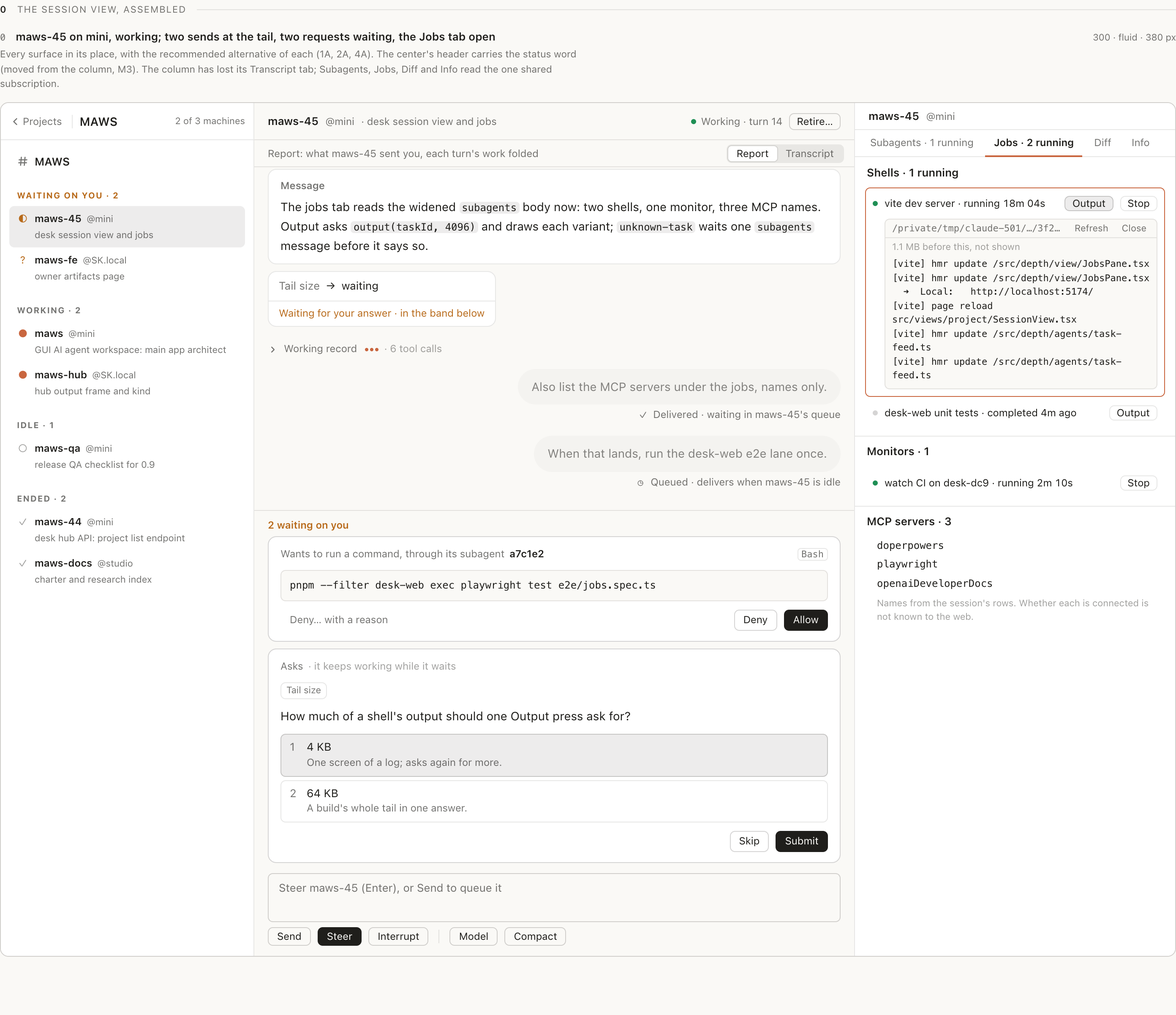
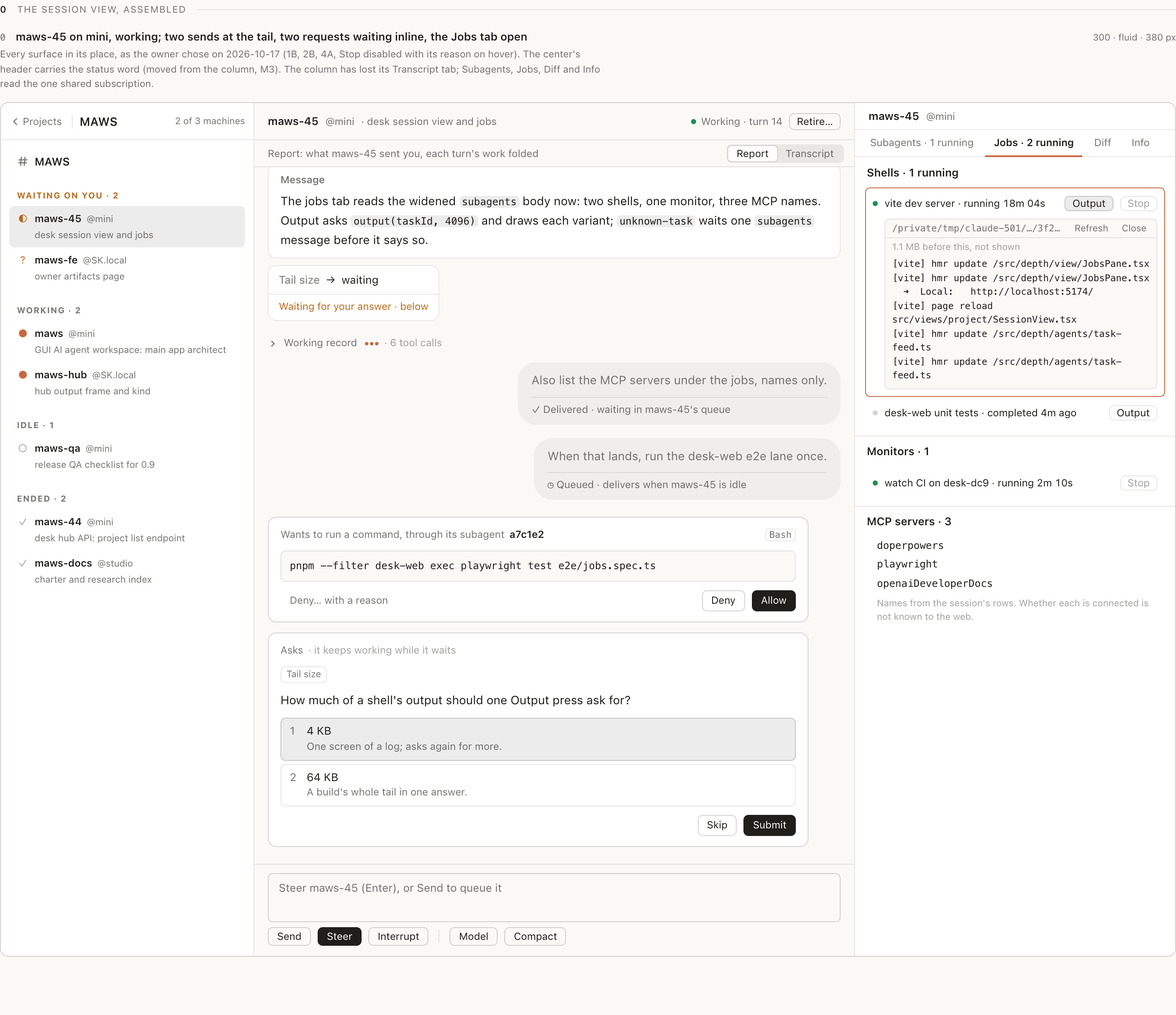
desk mockups 09: the owner's choices marked (1B, 2B, 4A, Stop disabled, the end marker as drawn)
Each chosen alternative is badged CHOSEN (owner, 2026-10-17); the assembled view uses 1B and 2B with the question row reading 'Waiting for your answer · below'; 2B's pill reads 'N waiting ↓'; Stop is disabled with its reason on hover. Screenshots re-shot.

diff --git a/mockups/desk/09-session-view.html b/mockups/desk/09-session-view.html
@@ -50,6 +50,7 @@ figure { margin: 0; }
 figcaption { display: flex; align-items: baseline; gap: 12px; margin-bottom: 5px; }
 figcaption .number { color: var(--fg-muted); font: 11px var(--font-mono); }
 figcaption .dimension { margin-left: auto; color: var(--fg-muted); font-size: 11px; }
+.pick.chosen { color: var(--bg); background: var(--success); border-color: var(--success); }
 .pick { font-size: 10px; font-weight: 650; letter-spacing: .06em; text-transform: uppercase; color: var(--fg); border: 1px solid var(--border-strong); border-radius: var(--radius-sm); padding: 2px 6px; }
 .rationale { margin: 0 0 12px; font-size: 11.5px; color: var(--fg-muted); line-height: 1.55; max-width: 100ch; }
 .frame { border: 1px solid var(--border-strong); border-radius: var(--radius); background: var(--bg); overflow: hidden; }
@@ -241,7 +242,7 @@ figcaption .dimension { margin-left: auto; color: var(--fg-muted); font-size: 11
 .ttext { flex: 1; min-width: 0; overflow: hidden; text-overflow: ellipsis; white-space: nowrap; font-size: var(--text-ui-sm); font-variant-numeric: tabular-nums; }
 .act { flex-shrink: 0; border: 1px solid var(--border); border-radius: var(--radius-sm); padding: 1px 8px; font-size: var(--text-ui-sm); }
 .act[aria-expanded="true"], .act.pressed { background: var(--bg-active); border-color: var(--border-strong); }
-.act:disabled { color: var(--fg-faint); }
+.act:disabled { color: var(--fg-faint); border-color: var(--border); cursor: help; }
 .tsub { padding-left: 14px; font-size: 11.5px; color: var(--fg-muted); line-height: 1.45; }
 .tsub code { font-size: 11px; }
 /* The output, inline (4A) and drilled into (4B): a plain-text tail, never Markdown */
@@ -290,15 +291,15 @@ figcaption .dimension { margin-left: auto; color: var(--fg-muted); font-size: 11
 <header class="page-head">
   <div class="eyebrow">The desk / The session view / 09 <a href="?theme=dark" id="theme-link">View in dark</a></div>
   <h1>The session view: what the transcript does not know yet, and what runs beside it.</h1>
-  <p>On a desktop browser whose machine is online, a direct channel's center is MAWS's report over the session's own transcript (§9.1): <code>&lt;message&gt;</code> spans as Message cards, one “Working record” row per marked turn, a Report · Transcript toggle. Around it, four surfaces are the desk's own and are this document's subject: <strong>the tail row's delivery line</strong> for a send the transcript has not shown yet, <strong>the request band</strong> above the composer, <strong>the end marker</strong> of an ended or retired session, and <strong>the jobs view</strong> in the column. Where a surface has a real choice, two alternatives stand side by side, named, with the one recommended marked.</p>
+  <p>On a desktop browser whose machine is online, a direct channel's center is MAWS's report over the session's own transcript (§9.1): <code>&lt;message&gt;</code> spans as Message cards, one “Working record” row per marked turn, a Report · Transcript toggle. Around it, four surfaces are the desk's own and are this document's subject: <strong>the tail row's delivery line</strong> for a send the transcript has not shown yet, <strong>the request band</strong> above the composer, <strong>the end marker</strong> of an ended or retired session, and <strong>the jobs view</strong> in the column. Where a surface has a real choice, two alternatives stand side by side, named, with the owner's choice of 2026-10-17 marked.</p>
 </header>
 
 <!-- ═══════════════════════════════ 0. The whole view ═══════════════════════════════ -->
 <section class="surface" id="s0">
 <div class="section-rule"><b>0</b> The session view, assembled</div>
 <section class="vignette"><figure>
-  <figcaption><span class="number">0</span><h2>maws-45 on mini, working; two sends at the tail, two requests waiting, the Jobs tab open</h2><span class="dimension">300 · fluid · 380 px</span></figcaption>
-  <p class="rationale">Every surface in its place, with the recommended alternative of each (1A, 2A, 4A). The center's header carries the status word (moved from the column, M3). The column has lost its Transcript tab; Subagents, Jobs, Diff and Info read the one shared subscription.</p>
+  <figcaption><span class="number">0</span><h2>maws-45 on mini, working; two sends at the tail, two requests waiting inline, the Jobs tab open</h2><span class="dimension">300 · fluid · 380 px</span></figcaption>
+  <p class="rationale">Every surface in its place, as the owner chose on 2026-10-17 (1B, 2B, 4A, Stop disabled with its reason on hover). The center's header carries the status word (moved from the column, M3). The column has lost its Transcript tab; Subagents, Jobs, Diff and Info read the one shared subscription.</p>
   <div class="frame"><div class="desk">
     <aside class="sidebar" aria-label="MAWS channels and sessions">
       <div class="sb-head"><a class="back" href="02-project.html"><svg><use href="#back"/></svg>Projects</a><span class="proj">MAWS</span><span class="proj-mach">2 of 3 machines</span></div>
@@ -317,25 +318,20 @@ figcaption .dimension { margin-left: auto; color: var(--fg-muted); font-size: 11
         <button class="session"><span class="session-glyph g-ended">✓</span><span><span class="session-title"><span class="alias">maws-docs</span><span class="at">@studio</span></span><span class="session-sub">charter and research index</span></span></button>
       </nav>
     </aside>
-    <section class="center" aria-label="maws-45">
+    <section class="center inline" aria-label="maws-45">
       <header class="chead"><span class="name">maws-45</span><span class="at">@mini</span><span class="charge">· desk session view and jobs</span><span class="status-word"><span class="dot"></span>Working · turn 14</span><button class="hbtn">Retire…</button></header>
       <div class="owner-bar"><span class="notes">Report: what maws-45 sent you, each turn's work folded</span><span class="toggle" role="group" aria-label="Session view"><button aria-pressed="true">Report</button><button aria-pressed="false">Transcript</button></span></div>
       <div class="scroll"><div class="column">
         <div class="user"><div class="bubble">Wire the jobs tab against the fake machine's recording. Keep the output tail plain text.</div></div>
         <div class="record"><button class="disclosure"><svg><use href="#chev"/></svg>Working record<span class="counts"> · 23 tool calls · 4 messages</span></button></div>
         <div class="ocard"><div class="ocard-label">Message</div><p>The jobs tab reads the widened <code>subagents</code> body now: two shells, one monitor, three MCP names. Output asks <code>output(taskId, 4096)</code> and draws each variant; <code>unknown-task</code> waits one <code>subagents</code> message before it says so.</p></div>
-        <div class="qrow"><ul><li><span class="ql">Tail size</span><span aria-hidden="true">→</span><span class="qa">waiting</span></li></ul><div class="qfoot wait">Waiting for your answer · in the band below</div></div>
+        <div class="qrow"><ul><li><span class="ql">Tail size</span><span aria-hidden="true">→</span><span class="qa">waiting</span></li></ul><div class="qfoot wait">Waiting for your answer · below</div></div>
         <div class="record"><button class="disclosure"><svg><use href="#chev"/></svg>Working record<span class="dots" role="img" aria-label="Working"><span></span><span></span><span></span></span><span class="counts"> · 6 tool calls</span></button></div>
-        <div class="user tail" data-state="delivered" data-way><div class="bubble">Also list the MCP servers under the jobs, names only.</div><div class="user-meta"><span class="dl"><span class="g">✓</span>Delivered · waiting in maws-45's queue</span></div></div>
-        <div class="user tail" data-state="queued" data-way><div class="bubble">When that lands, run the desk-web e2e lane once.</div><div class="user-meta"><span class="dl"><span class="g">◷</span>Queued · delivers when maws-45 is idle</span></div></div>
+        <div class="user tail-b" data-state="delivered" data-way><div class="bubble"><div class="txt">Also list the MCP servers under the jobs, names only.</div><div class="foot">✓ Delivered · waiting in maws-45's queue</div></div></div>
+        <div class="user tail-b" data-state="queued" data-way><div class="bubble"><div class="txt">When that lands, run the desk-web e2e lane once.</div><div class="foot">◷ Queued · delivers when maws-45 is idle</div></div></div>
+        <article class="rc"><div class="rc-head"><span class="m">Wants to run a command, through its subagent</span><b>a7c1e2</b><span class="tool">Bash</span></div><pre class="mono">pnpm --filter desk-web exec playwright test e2e/jobs.spec.ts</pre><div class="controls"><button class="cb ghost">Deny… with a reason</button><button class="cb">Deny</button><button class="cb primary">Allow</button></div></article>
+        <article class="rc"><div class="rc-head"><span class="m">Asks</span><span class="f">· it keeps working while it waits</span></div><span class="hchip">Tail size</span><p class="q">How much of a shell's output should one Output press ask for?</p><div class="opts"><div class="opt on"><span class="n">1</span><span class="ot"><span>4 KB</span><span class="od">One screen of a log; asks again for more.</span></span></div><div class="opt"><span class="n">2</span><span class="ot"><span>64 KB</span><span class="od">A build's whole tail in one answer.</span></span></div></div><div class="controls"><button class="cb">Skip</button><button class="cb primary">Submit</button></div></article>
       </div></div>
-      <section class="band" aria-label="2 requests waiting on you">
-        <div class="band-head">2 waiting on you</div>
-        <div class="band-cards">
-          <article class="rc"><div class="rc-head"><span class="m">Wants to run a command, through its subagent</span><b>a7c1e2</b><span class="tool">Bash</span></div><pre class="mono">pnpm --filter desk-web exec playwright test e2e/jobs.spec.ts</pre><div class="controls"><button class="cb ghost">Deny… with a reason</button><button class="cb">Deny</button><button class="cb primary">Allow</button></div></article>
-          <article class="rc"><div class="rc-head"><span class="m">Asks</span><span class="f">· it keeps working while it waits</span></div><span class="hchip">Tail size</span><p class="q">How much of a shell's output should one Output press ask for?</p><div class="opts"><div class="opt on"><span class="n">1</span><span class="ot"><span>4 KB</span><span class="od">One screen of a log; asks again for more.</span></span></div><div class="opt"><span class="n">2</span><span class="ot"><span>64 KB</span><span class="od">A build's whole tail in one answer.</span></span></div></div><div class="controls"><button class="cb">Skip</button><button class="cb primary">Submit</button></div></article>
-        </div>
-      </section>
       <div class="composer"><textarea class="box" placeholder="Steer maws-45 (Enter), or Send to queue it" aria-label="Message maws-45"></textarea><div class="verbs"><button class="vb">Send</button><button class="vb primary">Steer</button><button class="vb">Interrupt</button><span class="vsep"></span><button class="vb">Model</button><button class="vb">Compact</button></div></div>
     </section>
     <aside class="depth" aria-label="maws-45 in depth">
@@ -343,7 +339,7 @@ figcaption .dimension { margin-left: auto; color: var(--fg-muted); font-size: 11
       <div class="tabs" role="tablist"><button class="tab" role="tab" aria-selected="false">Subagents · 1 running</button><button class="tab" role="tab" aria-selected="true">Jobs · 2 running</button><button class="tab" role="tab" aria-selected="false">Diff</button><button class="tab" role="tab" aria-selected="false">Info</button></div>
       <div class="pane" role="tabpanel" aria-label="Jobs">
         <section class="grp"><h3>Shells · 1 running</h3>
-          <div class="trow sel"><div class="tline"><span class="tdot on"></span><span class="ttext">vite dev server · running 18m 04s</span><button class="act" aria-expanded="true">Output</button><button class="act">Stop</button></div>
+          <div class="trow sel"><div class="tline"><span class="tdot on"></span><span class="ttext">vite dev server · running 18m 04s</span><button class="act" aria-expanded="true">Output</button><button class="act" disabled title="Stopping a job from the web is not available yet: stop it from the session's terminal">Stop</button></div>
             <div class="out"><div class="out-head"><span class="path">/private/tmp/claude-501/…/3f2a9c1e/tasks/bq81x2kd.output</span><button>Refresh</button><button>Close</button></div><p class="before">1.1 MB before this, not shown</p><pre>[vite] hmr update /src/depth/view/JobsPane.tsx
 [vite] hmr update /src/depth/view/JobsPane.tsx
   ➜  Local:   http://localhost:5174/
@@ -354,7 +350,7 @@ figcaption .dimension { margin-left: auto; color: var(--fg-muted); font-size: 11
           <div class="trow"><div class="tline"><span class="tdot"></span><span class="ttext">desk-web unit tests · completed 4m ago</span><button class="act">Output</button></div></div>
         </section>
         <section class="grp"><h3>Monitors · 1</h3>
-          <div class="trow"><div class="tline"><span class="tdot on"></span><span class="ttext">watch CI on desk-dc9 · running 2m 10s</span><button class="act">Stop</button></div></div>
+          <div class="trow"><div class="tline"><span class="tdot on"></span><span class="ttext">watch CI on desk-dc9 · running 2m 10s</span><button class="act" disabled title="Stopping a job from the web is not available yet: stop it from the session's terminal">Stop</button></div></div>
         </section>
         <section class="grp"><h3>MCP servers · 3</h3>
           <ul class="mcp"><li>doperpowers</li><li>playwright</li><li>openaiDeveloperDocs</li></ul>
@@ -372,7 +368,7 @@ figcaption .dimension { margin-left: auto; color: var(--fg-muted); font-size: 11
 <p class="rationale">A send the transcript has not shown yet is a tail row in MAWS's held-prompt shape (<code>heldRow</code>). It stays, whatever its delivery says, until its own framed user row arrives, then gives way to it. <strong>The choice is where the delivery line sits.</strong> Both columns hold the same six sends, oldest first: a Send queued for idle, one delivered whose row has not arrived, one recorded for a session not running, one refused by a read-only machine, one that failed with the bridge's reason, and a Steer whose RPC never answered.</p>
 <div class="pair">
 <section class="vignette"><figure>
-  <figcaption><span class="number">1A</span><h2>Under the bubble: MAWS's held caption</h2><span class="pick">Recommended</span><span class="dimension">Center · 684 px</span></figcaption>
+  <figcaption><span class="number">1A</span><h2>Under the bubble: MAWS's held caption</h2><span class="dimension">Center · 684 px</span></figcaption>
   <p class="rationale">The line sits where MAWS writes “Sends when this turn ends” under a held bubble, so the desk's tail reads as MAWS's does. A send still on its way is dimmed as MAWS dims a held one; a send whose journey ended without its row is drawn at full strength, the caption in its tone, so it does not read as “still coming”. Buildable on MAWS's <code>UserRow</code> as it stands: the caption is the row's mount mark.</p>
   <div class="frame"><div class="center" style="height:auto">
     <header class="chead"><span class="name">maws-45</span><span class="at">@mini</span><span class="status-word"><span class="dot"></span>Working</span></header>
@@ -389,7 +385,7 @@ figcaption .dimension { margin-left: auto; color: var(--fg-muted); font-size: 11
   <p class="annot"><b>Each line is a fact about the send, never about the row.</b> “Delivered” says the text entered maws-45's queue (§9.1); the bubble stays dimmed until its own framed row arrives, then that row replaces it in place.</p>
 </figure></section>
 <section class="vignette"><figure>
-  <figcaption><span class="number">1B</span><h2>In the bubble, as its foot</h2><span class="dimension">Center · 684 px</span></figcaption>
+  <figcaption><span class="number">1B</span><h2>In the bubble, as its foot</h2><span class="pick chosen">Chosen (owner, 2026-10-17)</span><span class="dimension">Center · 684 px</span></figcaption>
   <p class="rationale">The state rides inside the bubble under a hairline, and a send that will not arrive tints the whole bubble: a failure is visible from a scroll away and cannot be read as a sent message. It costs MAWS's shape: the desk draws its own tail bubble instead of <code>UserRow</code>, and the tail no longer looks like MAWS's held messages.</p>
   <div class="frame"><div class="center" style="height:auto">
     <header class="chead"><span class="name">maws-45</span><span class="at">@mini</span><span class="status-word"><span class="dot"></span>Working</span></header>
@@ -422,7 +418,7 @@ figcaption .dimension { margin-left: auto; color: var(--fg-muted); font-size: 11
 <p class="rationale">The hub's pending requests for the session, as DC5's request cards, answerable in place; a card leaves when its request settles. The band is not in the scroll, so a request the turn is blocked on can never sit folded inside a closed working record (§9.1's reason for rejecting <code>request_slot</code> rows). <strong>The choice is what happens when many are waiting</strong>: the band, which keeps the oldest open and folds the rest to one line each, or the cards inline at the transcript's tail.</p>
 <div class="pair">
 <section class="vignette"><figure>
-  <figcaption><span class="number">2A</span><h2>The band above the composer</h2><span class="pick">Recommended</span><span class="dimension">Center · 684 px</span></figcaption>
+  <figcaption><span class="number">2A</span><h2>The band above the composer</h2><span class="dimension">Center · 684 px</span></figcaption>
   <p class="rationale">Two waiting: both open. The answer is under the reader's hands, beside the composer, whatever they have scrolled to. The cost shows at a laptop's 900 px: two open cards take about 560 px of the center. With three or more, below, the oldest stays open and the rest fold to a line each; folding from two is the stricter variant of the same rule.</p>
   <div class="frame"><div class="center" style="height:900px">
     <header class="chead"><span class="name">maws-45</span><span class="at">@mini</span><span class="status-word"><span class="dot"></span>Waiting on you</span></header>
@@ -444,8 +440,8 @@ figcaption .dimension { margin-left: auto; color: var(--fg-muted); font-size: 11
   <p class="annot"><b>The ask mod's question is in two places by construction</b>: its transcript row (S1's classify entry) and the hub's pending request. While pending, the row says where to answer; once answered, the band's card leaves and the row is MAWS's receipt, with the log's <code>answered</code> overlaid.</p>
 </figure></section>
 <section class="vignette"><figure>
-  <figcaption><span class="number">2B</span><h2>Inline, at the transcript's tail</h2><span class="dimension">Center · 684 px</span></figcaption>
-  <p class="rationale">The cards are the transcript's last rows, after any tail sends, and scroll with it, as DC5's channel draws them in its stream today. The composer stays clear, but a reader scrolled up sees only a “2 waiting ↓” pill, and a long card pushes the session's own latest words off screen.</p>
+  <figcaption><span class="number">2B</span><h2>Inline, at the transcript's tail</h2><span class="pick chosen">Chosen (owner, 2026-10-17)</span><span class="dimension">Center · 684 px</span></figcaption>
+  <p class="rationale">The cards are the transcript's last rows, after any tail sends, and scroll with it, as DC5's channel draws them in its stream today. The composer stays clear, but a reader scrolled up gets an “N waiting ↓” pill, and a long card pushes the session's own latest words off screen.</p>
   <div class="frame"><div class="center inline" style="height:900px">
     <header class="chead"><span class="name">maws-45</span><span class="at">@mini</span><span class="status-word"><span class="dot"></span>Waiting on you</span></header>
     <div class="owner-bar"><span class="notes"></span><span class="toggle"><button aria-pressed="true">Report</button><button aria-pressed="false">Transcript</button></span></div>
@@ -488,7 +484,7 @@ figcaption .dimension { margin-left: auto; color: var(--fg-muted); font-size: 11
       <div class="record"><button class="disclosure"><svg><use href="#chev"/></svg>Working record<span class="counts"> · 31 tool calls · 2 messages</span></button></div>
       <div class="ocard"><div class="ocard-label">Message</div><p>The end marker reads the session's presence, never the subscription.</p></div>
       <div class="record"><button class="disclosure"><svg><use href="#chev"/></svg>Working record<span class="counts"> · 9 tool calls</span></button></div>
-      <button class="jump"><svg><use href="#down"/></svg>4 waiting on you</button>
+      <button class="jump">4 waiting<svg><use href="#down"/></svg></button>
     </div></div>
     <div class="composer"><textarea class="box" placeholder="Steer maws-45 (Enter), or Send to queue it"></textarea><div class="verbs"><button class="vb">Send</button><button class="vb primary">Steer</button><button class="vb">Interrupt</button></div></div>
   </div></div>
@@ -498,7 +494,7 @@ figcaption .dimension { margin-left: auto; color: var(--fg-muted); font-size: 11
 
 <!-- ═══════════════════════════════ 3. The end marker ═══════════════════════════════ -->
 <section class="surface" id="s3">
-<div class="section-rule"><b>3</b> The end marker · ended, and retired</div>
+<div class="section-rule"><b>3</b> The end marker · ended, and retired · <span class="pick chosen">Chosen (owner, 2026-10-17)</span> as drawn</div>
 <p class="rationale">One row at the tail of an ended or retired session's view, in MAWS's boundary shape (a rule, its words, a rule), with what the channel's header offers: Resume, or who retired it. The history above stays pageable to the first line; whether the session runs is read from presence, never from the subscription. The header keeps its own Resume, so the marker's is a second door at the place the eye ends.</p>
 <div class="pair">
 <section class="vignette"><figure>
@@ -541,14 +537,14 @@ figcaption .dimension { margin-left: auto; color: var(--fg-muted); font-size: 11
 <p class="rationale">A tab beside Subagents, Diff and Info, drawn with MAWS's <code>ShellRow</code> and <code>MonitorRow</code> under MAWS's Background work headings, over the widened <code>subagents</code> body's <code>jobs</code> and <code>mcp</code>. A shell's Output asks the machine for the file's tail (<code>output(taskId, tail)</code>) and draws it as plain text. <strong>The choice is where the output opens</strong> in a 380 px column: under its row, or as the column's whole pane.</p>
 <div class="trio">
 <section class="vignette"><figure>
-  <figcaption><span class="number">4A</span><h2>Output under its row</h2><span class="pick">Recommended</span></figcaption>
+  <figcaption><span class="number">4A</span><h2>Output under its row</h2><span class="pick chosen">Chosen (owner, 2026-10-17)</span></figcaption>
   <p class="rationale">The list stays in view: a second shell's Output opens beside the first, and the monitor stays visible. The tail is bounded to a few lines' height.</p>
   <div class="frame solo"><aside class="depth">
     <header class="dhead"><span class="name">maws-45</span><span class="at">@mini</span></header>
     <div class="tabs"><button class="tab" aria-selected="false">Subagents · 1 running</button><button class="tab" aria-selected="true">Jobs · 2 running</button><button class="tab" aria-selected="false">Diff</button><button class="tab" aria-selected="false">Info</button></div>
     <div class="pane">
       <section class="grp"><h3>Shells · 1 running</h3>
-        <div class="trow sel"><div class="tline"><span class="tdot on"></span><span class="ttext">vite dev server · running 18m 04s</span><button class="act" aria-expanded="true">Output</button><button class="act">Stop</button></div>
+        <div class="trow sel"><div class="tline"><span class="tdot on"></span><span class="ttext">vite dev server · running 18m 04s</span><button class="act" aria-expanded="true">Output</button><button class="act" disabled title="Stopping a job from the web is not available yet: stop it from the session's terminal">Stop</button></div>
           <div class="out"><div class="out-head"><span class="path">/private/tmp/claude-501/…/3f2a9c1e/tasks/bq81x2kd.output</span><button>Refresh</button><button>Close</button></div><p class="before">1.1 MB before this, not shown</p><pre>[vite] hmr update /src/depth/view/JobsPane.tsx
   ➜  Local:   http://localhost:5174/
 [vite] page reload src/views/project/SessionView.tsx
@@ -559,7 +555,7 @@ figcaption .dimension { margin-left: auto; color: var(--fg-muted); font-size: 11
         <div class="trow"><div class="tline"><span class="tdot"></span><span class="ttext" style="color:var(--danger)">pnpm typecheck · failed 22m ago</span><button class="act">Output</button></div></div>
       </section>
       <section class="grp"><h3>Monitors · 1</h3>
-        <div class="trow"><div class="tline"><span class="tdot on"></span><span class="ttext">watch CI on desk-dc9 · running 2m 10s</span><button class="act">Stop</button></div><p class="tsub">No output file yet: a monitor names none at its start.</p></div>
+        <div class="trow"><div class="tline"><span class="tdot on"></span><span class="ttext">watch CI on desk-dc9 · running 2m 10s</span><button class="act" disabled title="Stopping a job from the web is not available yet: stop it from the session's terminal">Stop</button></div><p class="tsub">No output file yet: a monitor names none at its start.</p></div>
       </section>
       <section class="grp"><h3>MCP servers · 3</h3>
         <ul class="mcp"><li>doperpowers</li><li>playwright</li><li>openaiDeveloperDocs</li></ul>
@@ -575,7 +571,7 @@ figcaption .dimension { margin-left: auto; color: var(--fg-muted); font-size: 11
     <header class="dhead"><span class="name">maws-45</span><span class="at">@mini</span></header>
     <div class="tabs"><button class="tab" aria-selected="false">Subagents · 1 running</button><button class="tab" aria-selected="true">Jobs · 2 running</button><button class="tab" aria-selected="false">Diff</button><button class="tab" aria-selected="false">Info</button></div>
     <div class="pane">
-      <div class="drill-head"><button class="backb"><svg><use href="#back"/></svg>Jobs</button><span class="t">vite dev server</span><button class="act" style="margin-left:auto">Refresh</button><button class="act">Stop</button></div>
+      <div class="drill-head"><button class="backb"><svg><use href="#back"/></svg>Jobs</button><span class="t">vite dev server</span><button class="act" style="margin-left:auto">Refresh</button><button class="act" disabled title="Stopping a job from the web is not available yet: stop it from the session's terminal">Stop</button></div>
       <div class="drill-meta">Running 18m 04s · <code>pnpm --filter desk-web dev</code><br>Last 4 KB of 1.1 MB · <code>…/3f2a9c1e/tasks/bq81x2kd.output</code></div>
       <div class="drill-body"><div class="out big"><pre>  VITE v6.2.0  ready in 412 ms
 
@@ -607,7 +603,7 @@ figcaption .dimension { margin-left: auto; color: var(--fg-muted); font-size: 11
   </div>
 </figure></section>
 </div>
-<p class="annot"><b>Stop is MAWS's row as it stands</b>: <code>ShellRow</code> and <code>MonitorRow</code> draw it on every running task. Stopping from the web is optional in §9.4 (an RPC through the bridge's <code>TaskStop</code>); until it exists the desk draws it disabled with the reason on hover, or the row is adapted to hide it.</p>
+<p class="annot"><b>Stop is MAWS's row as it stands</b>: <code>ShellRow</code> and <code>MonitorRow</code> draw it on every running task. Stopping from the web is optional in §9.4 (an RPC through the bridge's <code>TaskStop</code>); the owner chose (2026-10-17) to draw it disabled, its reason on hover, until that RPC exists.</p>
 </section>
 
 </main>
